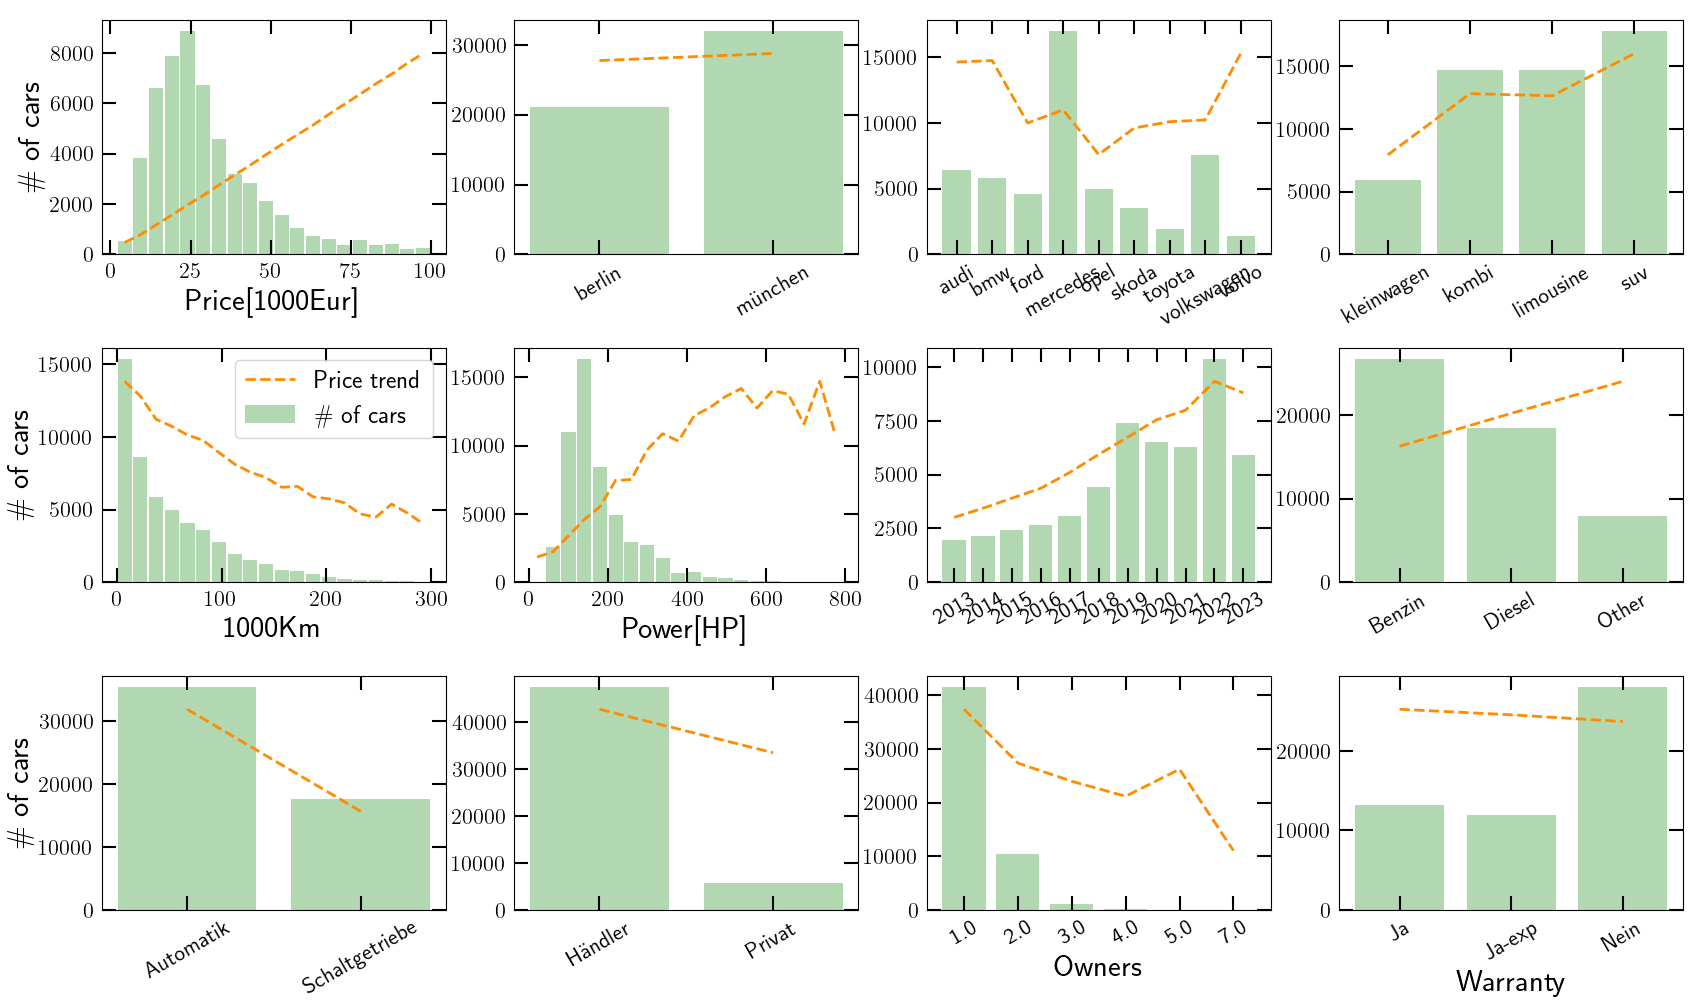
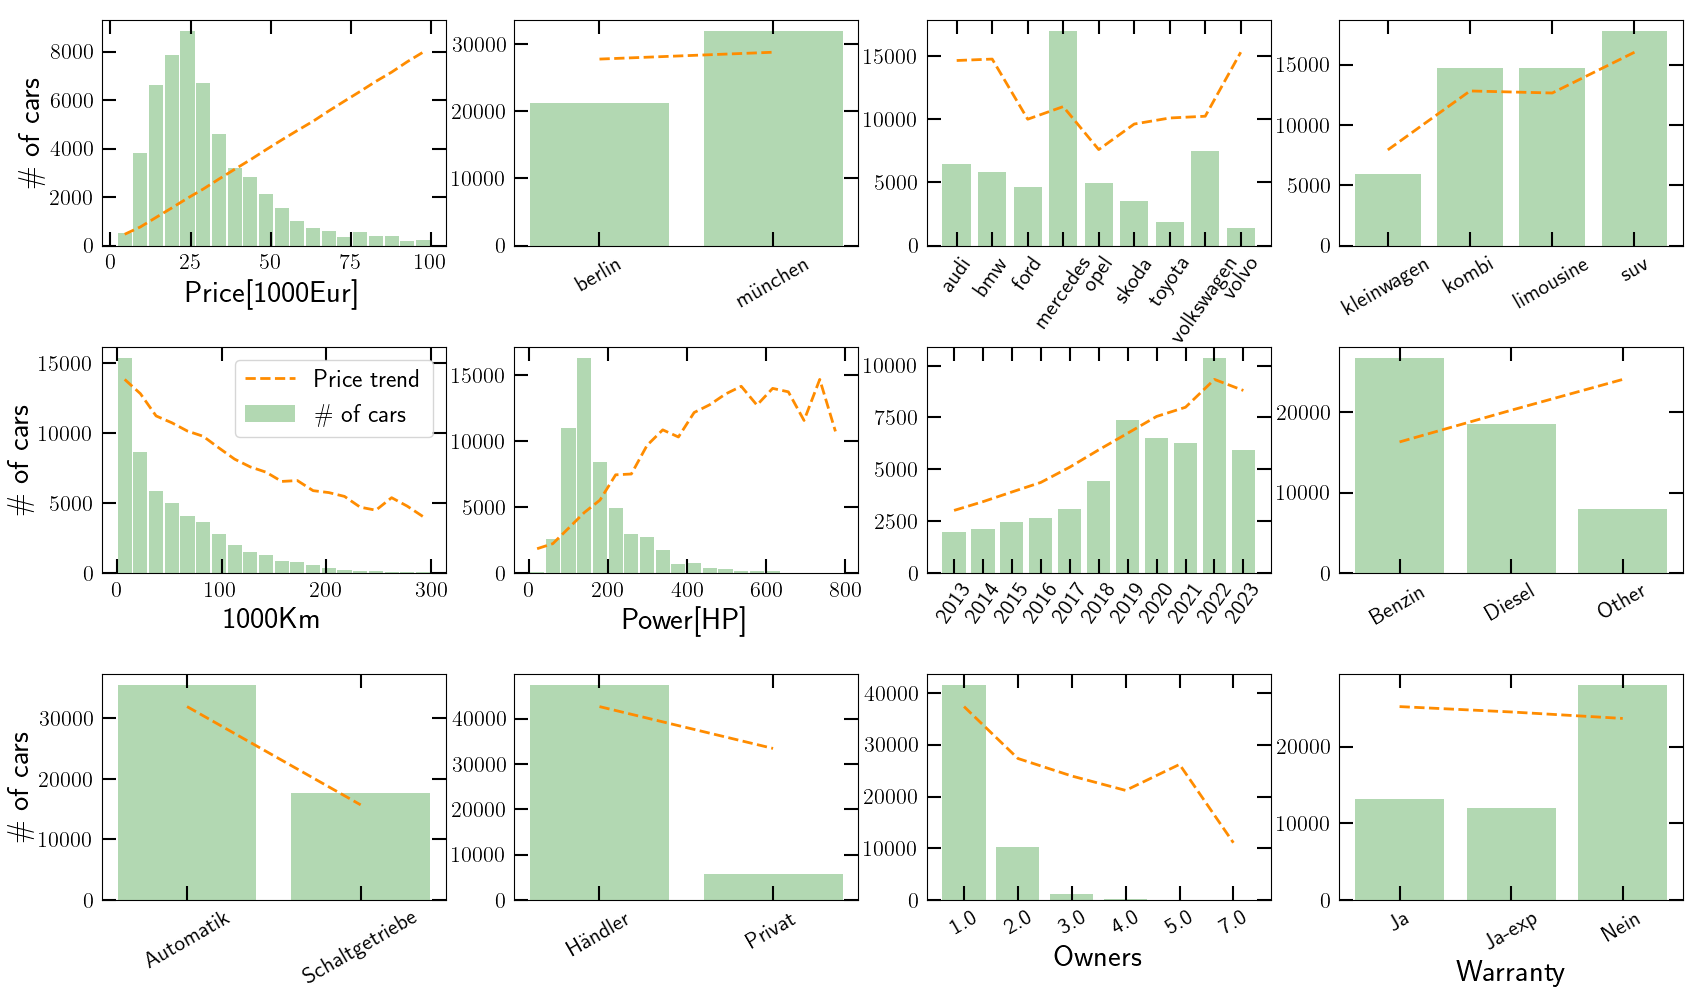
Updated figure

diff --git a/plot_data_stats.py b/plot_data_stats.py
@@ -26,7 +26,7 @@ list_of_le = [None, le_city, le_brand, le_body, None, None, le_year, le_gas, le_
 # ================================================================ 
 
 fig0 = plt.figure(0, figsize = (17., 10.))
-fig0.subplots_adjust(left=0.06, right=0.99, bottom=0.09, top = 0.98, hspace = 0.4, wspace = 0.2)
+fig0.subplots_adjust(left=0.06, right=0.99, bottom=0.10, top = 0.98, hspace = 0.45, wspace = 0.2)
 
 def plot_bincount(df, feature, le):
     # Add counts
@@ -42,7 +42,10 @@ def plot_bincount(df, feature, le):
     mean_price = mean_price * max(counts) / max(mean_price) * 0.9
     plt.plot(xx, mean_price, linewidth = 2., linestyle = 'dashed', c = 'darkorange', label = 'Price trend')
     # Cosmetics
-    plt.xticks(range(len(xx_names)), xx_names, rotation = 30.)
+    if( (feature=='Brand') or (feature=='Year') ):
+        plt.xticks(range(len(xx_names)), xx_names, rotation = 55.)
+    else:
+        plt.xticks(range(len(xx_names)), xx_names, rotation = 30.)
     plt.tick_params(length=tick_major, width=tickwidth , bottom=True, top=True, left=True, right=True, direction = 'in', which = 'major', pad = tickpad, labelsize = ticksize)
     return 0
 
